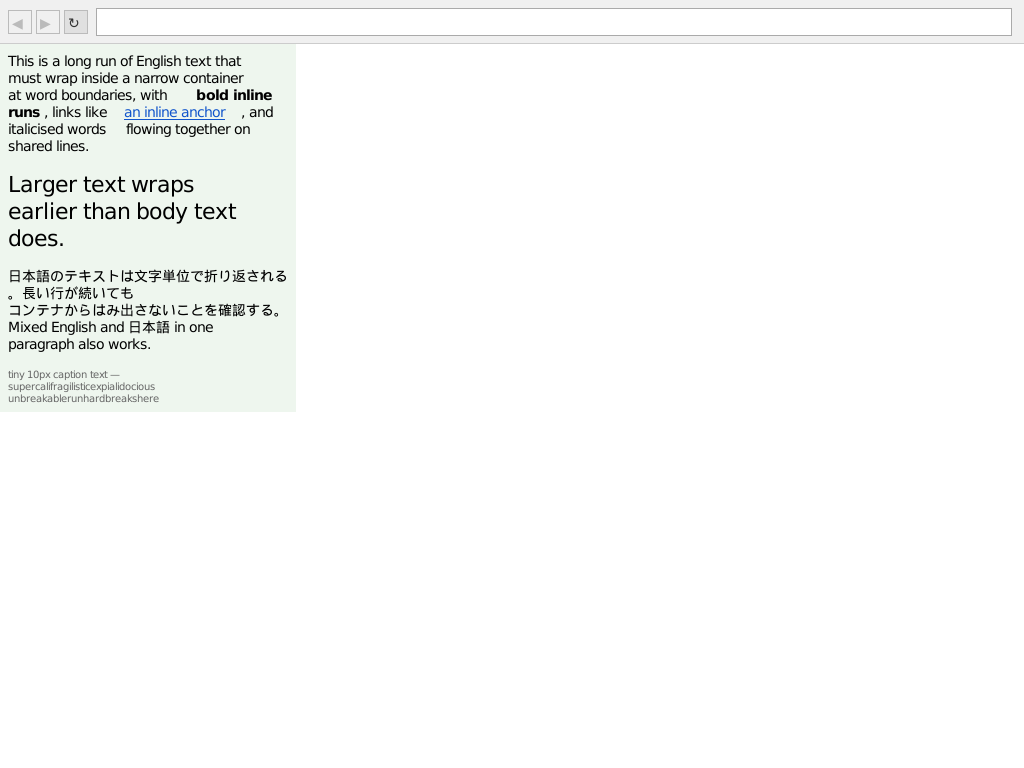
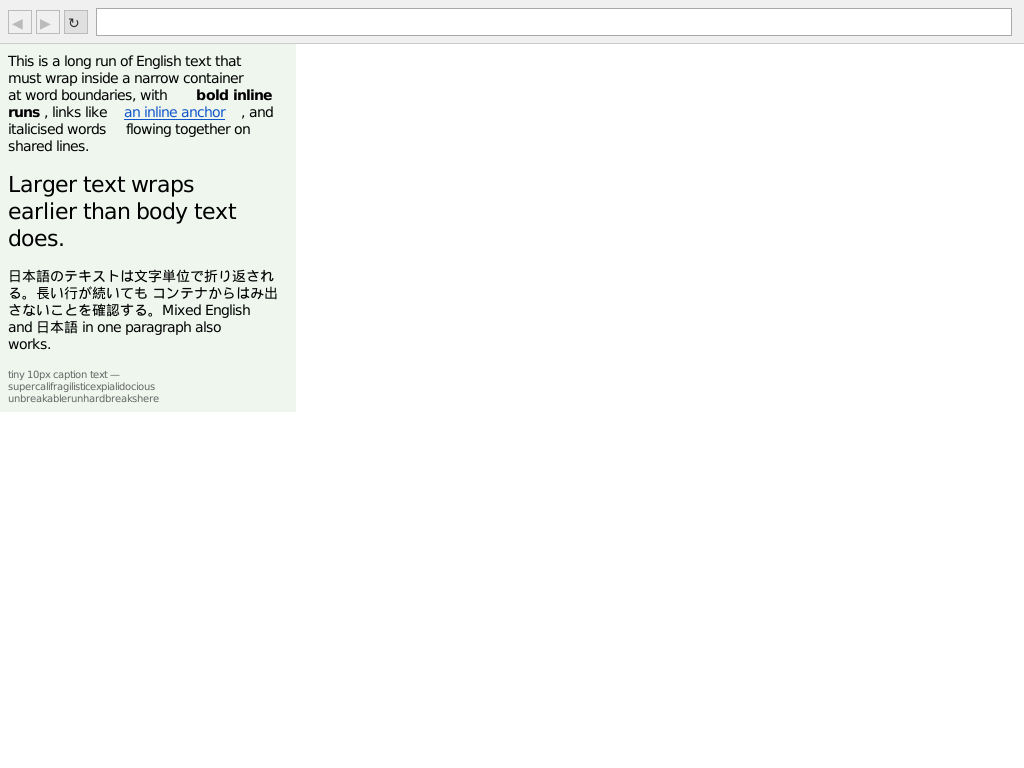
feat(layout): UAX #14 line breaking
Breaking was "split at spaces", which is wrong wherever text isn't
space-separated English. `unicode-linebreak` supplies the real break
opportunities, computed once per run (a property of the text, not of the line
it lands on — recomputing per line would be quadratic on a long run).

What it fixes, each pinned by a test:
  - a Japanese full stop no longer starts a line (UAX #14 class CL). The
    inline_wrap golden showed 「。」 stranded at the head of a line, which
    Japanese typography forbids;
  - "don't" is one word rather than two breakable pieces;
  - a hyphen offers a break after it, so "fixed bottom-right" fits more on the
    line before wrapping (the positioned golden).

Trailing white space at a break hangs rather than counting against the width,
so a line may end with spaces without pushing the next word down (CSS Text
§4.1). A fragment that does *not* end a line keeps its trailing space — that
space separates it from what follows on the same line.

Two goldens re-baselined (both the improvements above). Fixtures: HN and MDN
identical, Wikipedia 435px of sub-word packing. Costs ~3.5% of layout time on
Wikipedia in a debug build (61.8s vs 59.6s for a full screenshot run).

engine 162, reftests 13/13.

Claude-Session: https://claude.ai/code/session_01BV31D3duyte93naBg2nCc5

Changed region(s): [[0.0, 0.3438, 0.2812, 0.4688]]

diff --git a/saba/cosmo_engine/src/renderer/layout/inline.rs b/saba/cosmo_engine/src/renderer/layout/inline.rs
@@ -173,6 +173,10 @@ pub fn layout_inline_items_aligned(
                 }, item);
             }
             InlineItem::Text(run) => {
+                // Break opportunities for the whole run, computed once: they
+                // are a property of the text, not of the line it lands on, and
+                // recomputing per line would be quadratic on a long run.
+                let breaks = break_opportunities(&run.text);
                 let mut rest = run.text.as_str();
                 loop {
                     let band = band_for(
@@ -182,7 +186,9 @@ pub fn layout_inline_items_aligned(
                         run.line_height.max(probe_height),
                     );
                     let available = (band.right - current.x).max(0);
-                    let (head, tail) = break_text(rest, run, available, current.is_empty());
+                    let base = run.text.len() - rest.len();
+                    let (head, tail) =
+                        break_text(rest, base, &breaks, run, available, current.is_empty());
                     if head.is_empty() {
                         // Nothing fits on what's left of this line. If the line
                         // already holds something, move on.
@@ -223,13 +229,23 @@ pub fn layout_inline_items_aligned(
                         );
                         rest = remainder;
                     } else {
+                        // White space at a line break hangs: drop it from the
+                        // fragment so it neither widens the line nor shifts an
+                        // alignment. A fragment that does NOT end a line keeps
+                        // its trailing space — that space separates it from
+                        // whatever follows on the same line.
+                        let painted = if tail.is_empty() {
+                            head
+                        } else {
+                            head.trim_end_matches(is_break_space)
+                        };
                         current.push(
                             Fragment {
                                 item: index,
-                                text: Some(head.to_string()),
+                                text: Some(painted.to_string()),
                                 x: current.x,
                                 y: current.y,
-                                width: measure_text_width(head, run.font_size, run.bold),
+                                width: measure_text_width(painted, run.font_size, run.bold),
                                 height: run.line_height,
                             },
                             item,
@@ -330,43 +346,81 @@ fn next_y(lines: &[LineBox]) -> i64 {
     lines.last().map(|l| l.y + l.height).unwrap_or(0)
 }
 
-/// Split `text` at the last break opportunity that fits in `available`.
-/// Returns (what goes on this line, what is left). A break at a space consumes
-/// it. When `line_empty` and not even one word fits, the text is hard-broken so
-/// layout always progresses.
+/// The UAX #14 break opportunities in `text`, as byte offsets at which a line
+/// may end (the offset is the start of the next line). Computed once per run.
+///
+/// Spec: UAX #14, Unicode Line Breaking Algorithm. https://www.unicode.org/reports/tr14/
+fn break_opportunities(text: &str) -> Vec<usize> {
+    unicode_linebreak::linebreaks(text)
+        .map(|(offset, _)| offset)
+        .collect()
+}
+
+/// Split `text` — the untaken remainder of a run starting at byte `base` within
+/// it — at the last break opportunity whose content fits in `available`.
+/// Returns (what goes on this line, what is left).
+///
+/// Trailing white space at the break does not count against the width: a line
+/// may end with spaces that hang past the edge rather than pushing the next
+/// word down (CSS Text §4.1, hanging white space). When `line_empty` and not
+/// even the first opportunity fits, the text is hard-broken so layout always
+/// progresses.
 fn break_text<'a>(
     text: &'a str,
+    base: usize,
+    breaks: &[usize],
     run: &TextRun,
     available: i64,
     line_empty: bool,
 ) -> (&'a str, &'a str) {
+    // Walk once, recording each opportunity together with the width of the
+    // content up to it excluding any trailing spaces.
     let mut width = 0i64;
-    // Last break opportunity seen: (end of the fitting text, start of the rest).
-    let mut last_break: Option<(usize, usize)> = None;
-    for (index, ch) in text.char_indices() {
-        let advance = char_advance(ch, run.font_size, run.bold);
-        if width + advance > available {
-            // The overflow is itself a break opportunity: the line ends here
-            // and the space is dropped — a trailing space at a break never
-            // forces the word after it down (CSS Text §4.1, hanging spaces).
-            if is_break_space(ch) {
-                return (&text[..index], &text[index + ch.len_utf8()..]);
+    let mut width_without_trailing_space = 0i64;
+    let mut best: Option<usize> = None;
+    let mut next_break = breaks.partition_point(|b| *b <= base);
+    let mut hard_break_at: Option<usize> = None;
+
+    for (offset, ch) in text.char_indices() {
+        let absolute = base + offset;
+        // Opportunities at or before this character are now measurable.
+        while next_break < breaks.len() && breaks[next_break] <= absolute {
+            if width_without_trailing_space <= available {
+                best = Some(breaks[next_break] - base);
             }
-            return match last_break {
-                Some((end, next)) => (&text[..end], &text[next..]),
-                // No break opportunity fits. On an empty line, hard-break
-                // before the overflowing character (never produce nothing, or
-                // the caller would spin).
-                None if line_empty && index > 0 => (&text[..index], &text[index..]),
-                None => ("", text),
-            };
+            next_break += 1;
         }
-        width += advance;
-        if is_break_space(ch) {
-            last_break = Some((index, index + ch.len_utf8()));
+        if width_without_trailing_space > available {
+            // Nothing further can fit; stop rather than scanning the rest.
+            break;
+        }
+        if hard_break_at.is_none() && width + char_advance(ch, run.font_size, run.bold) > available
+        {
+            hard_break_at = Some(offset);
+        }
+        width += char_advance(ch, run.font_size, run.bold);
+        if !is_break_space(ch) {
+            width_without_trailing_space = width;
         }
     }
-    (text, "")
+    // The end of the run is itself an opportunity.
+    while next_break < breaks.len() && breaks[next_break] <= base + text.len() {
+        if width_without_trailing_space <= available {
+            best = Some(breaks[next_break] - base);
+        }
+        next_break += 1;
+    }
+
+    match best {
+        Some(end) => (&text[..end], &text[end..]),
+        // No opportunity fits. On an empty line the word is longer than the
+        // line, so hard-break it rather than produce nothing.
+        None if line_empty => match hard_break_at.filter(|at| *at > 0) {
+            Some(at) => (&text[..at], &text[at..]),
+            None => ("", text),
+        },
+        None => ("", text),
+    }
 }
 
 /// A line being filled.
@@ -560,6 +614,67 @@ mod tests {
         // The tall atomic sets the baseline; the line is at least that tall.
         assert_eq!(lines[0].baseline, 40);
         assert!(lines[0].height >= 40);
+    }
+
+    #[test]
+    fn uax14_keeps_punctuation_off_the_start_of_a_line() {
+        // A Japanese full stop may not begin a line (UAX #14 class CL): the
+        // break has to happen before the character it follows instead. The old
+        // space-only rule broke anywhere and stranded it.
+        let items = vec![InlineItem::Text(TextRun {
+            text: "本日は晴天なり。".to_string(),
+            font_size: FontSize::Medium,
+            bold: false,
+            line_height: 20,
+        })];
+        // Room for roughly seven of the eight double-width characters.
+        let narrow = measure_text_width("本日は晴天なり", FontSize::Medium, false);
+        let lines = layout_inline_items(&items, &FloatContext::default(), narrow, 0, 0);
+        let first: String = lines[0]
+            .fragments
+            .iter()
+            .filter_map(|f| f.text.clone())
+            .collect();
+        assert!(
+            !lines[1..]
+                .iter()
+                .flat_map(|l| l.fragments.iter())
+                .filter_map(|f| f.text.as_deref())
+                .any(|t| t.starts_with('。')),
+            "a full stop must not start a line, got {:?}",
+            lines_text(&lines)
+        );
+        assert!(first.ends_with('。') || first.len() < "本日は晴天なり。".len());
+    }
+
+    #[test]
+    fn uax14_does_not_break_inside_a_word_with_an_apostrophe() {
+        // "don't" is one word: the only break opportunities are around it.
+        let items = vec![text("well don't stop")];
+        let available = width_of("well don't");
+        let lines = layout_inline_items(&items, &FloatContext::default(), available, 0, 0);
+        assert_eq!(
+            lines_text(&lines),
+            vec![vec!["well don't".to_string()], vec!["stop".to_string()]]
+        );
+    }
+
+    #[test]
+    fn uax14_breaks_after_a_hyphen() {
+        // A hyphen offers a break after it, which the space-only rule missed.
+        let items = vec![text("state-of-the-art design")];
+        let available = width_of("state-of-");
+        let lines = layout_inline_items(&items, &FloatContext::default(), available, 0, 0);
+        assert!(lines.len() > 1);
+        assert!(
+            lines[0]
+                .fragments
+                .iter()
+                .filter_map(|f| f.text.as_deref())
+                .any(|t| t.ends_with('-')),
+            "expected the first line to end at a hyphen, got {:?}",
+            lines_text(&lines)
+        );
     }
 
     #[test]
